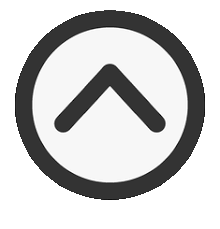
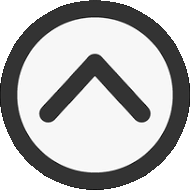
fixed back to top button

diff --git a/index.html b/index.html
@@ -72,17 +72,35 @@
             <p>random text</p>
             <br>
             <p>random text</p>
+            <br>
+            <p>random text</p>
+            <br>
+            <p>random text</p>
+            <br>
+            <p>random text</p>
+            <br>
+            <p>random text</p>
+            <br>
+            <p>random text</p>
+            <br>
+            <p>random text</p>
+            <br>
+            <p>random text</p>
+            <br>
+            <p>random text</p>
+            <br>
+            <p>random text</p>
         </div>
     </main>
     <footer>
-        <p>You can also find me on:</p>
+        <p class="grid-col-span-4">You can also find me on:</p>
         <a href="https://www.youtube.com/channel/UC0oz1YrYladRIsscDr7nIRQ" class="cool-link">YouTube</a>
         <a href="" class="cool-link">Discord</a>
         <a href="" class="cool-link">Instagram</a>
         <a href="https://github.com/salamelek/" class="cool-link">GitHub</a>
     </footer>
-    <div>
-        <a href="#" class="topButton" id="topButton"><img src="./images/back_to_top.png" alt="" class="topButtonImg"></a>
+    <div class="top-btn-container">
+        <a href="#" class="top-btn-link"><img src="./images/back_to_top.png" alt="" class="top-btn-img"/></a>
     </div>
     <div>
         <br>

diff --git a/projects/index.html b/projects/index.html
@@ -98,7 +98,7 @@
         <a href="https://github.com/salamelek/" class="cool-link">GitHub</a>
     </footer>
     <div>
-        <a href="#" class="topButton" id="topButton"><img src="../images/back_to_top.png" alt="" class="topButtonImg"></a>
+        <a href="#" class="top-button" id="topButton"><img src="../images/back_to_top.png" alt="" class="btn-link"></a>
     </div>
     <div>
         <br>
